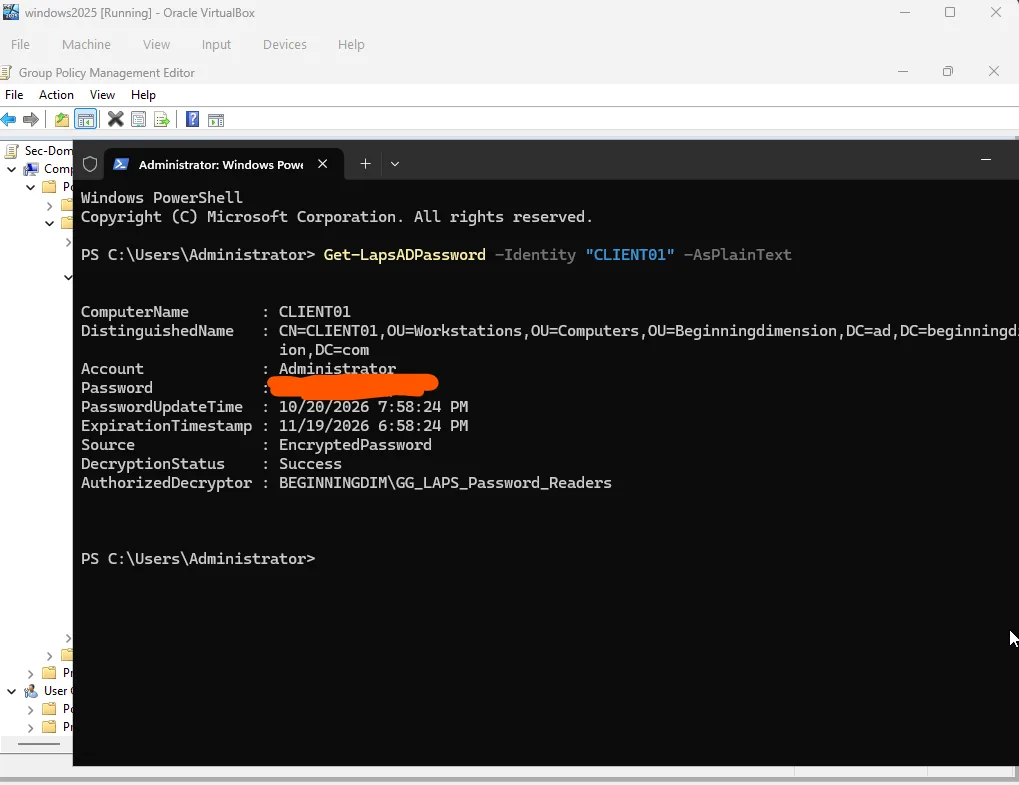
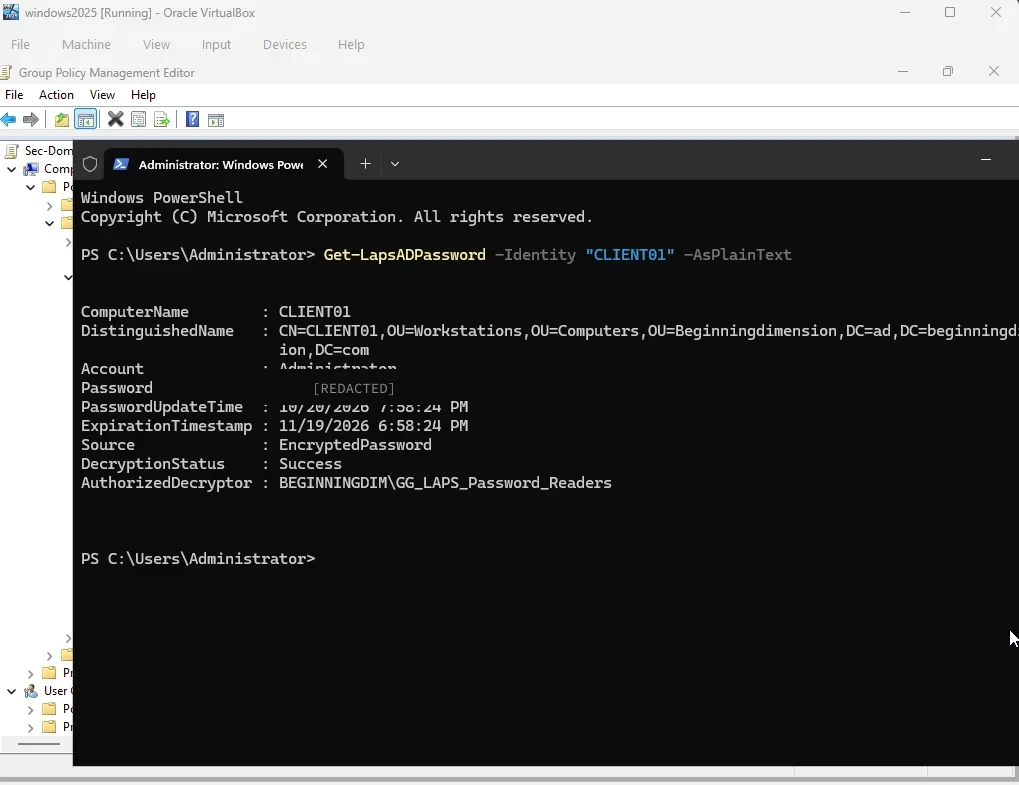
Clean up portfolio: tidy redaction, end seasonal Intelcia role, balance experience layout

Changed region(s): [[0.2434, 0.4586, 0.4259, 0.5197]]

diff --git a/src/lib/profile.ts b/src/lib/profile.ts
@@ -27,10 +27,11 @@ export const experience = [
   {
     role: "Technical Support Specialist",
     org: "Intelcia",
-    where: "Lisbon · Onsite",
-    when: "Nov 2026 – Present",
+    where: "Lisbon · Onsite · Seasonal contract",
+    when: "Nov 2026",
     points: [
       "Real-time phone support in English for candidates taking online assessments on an EU platform.",
+      "99% first-contact resolution: escalated a single case across the whole contract.",
       "Troubleshoot browser, camera and audio settings while keeping anxious candidates calm.",
       "Document recurring errors to feed knowledge-base and process improvements.",
     ],
